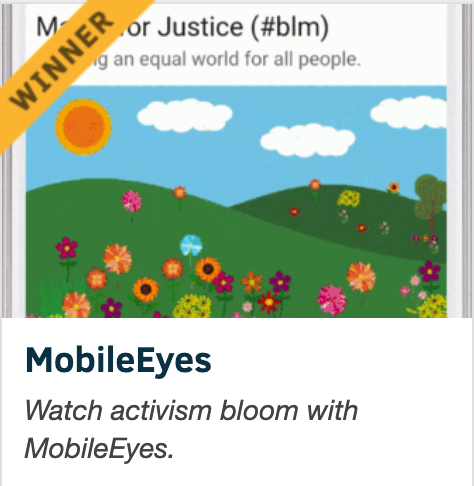
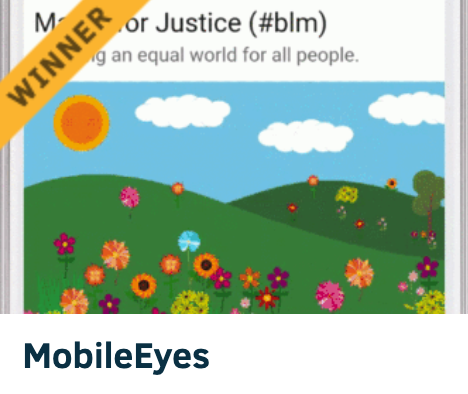
added projects kinda

diff --git a/projects.html b/projects.html
@@ -78,31 +78,122 @@
             </p>
           </div>
         </div>
-        <div class="header-img header-img-home"></div>
+        <div class="header-img header-img-project"></div>
         <div class="header-overlay"></div>
       </section>
     </header>
     <div class="row">
-      <div class="col-md-6">
-        <img src="assets/yta-tennis.JPG"" alt="YTA Picture" />
+      <div class="col-sm-6">
+        <div class="card">
+          <div class="card-body">
+            <h1 class="title-projects">MobileEyes</h1>
+            <img
+              class="card-img-top"
+              src="assets/projects/mobile-eyes.png"
+              alt="MobileEyes Project Image"
+            />
+            <p class="card-text p-projects">
+              MobileEyes is a mobile application that makes it easy to discover
+              upcoming protests, rallies, or activism events—known simply as
+              "Springs" within the app. Users can see where and when nearby
+              Springs will begin and learn about their missions and background.
+              On the day of the event, when users arrive at the listed location,
+              the app will allow them to "Check In", which adds a flower to the
+              Spring's visual garden. As more and more activists assemble, the
+              Spring thrives, which encourages even more people to join in and
+              grow the movement. Those wanting to create events themselves can
+              use MobileEyes to "Seed a Spring" in just a few taps.
+            </p>
+            <a href="#" class="btn btn-primary">Learn More!</a>
+          </div>
+        </div>
       </div>
-      <div class="col-md-6">
-        <div class="text-box-about">
-          <h4 class="title-about">Teaching</h4>
-          <p class="p-about">
-            One thing I love to do is teach others, whether they be my peers or
-            younger students who need help in STEM subjects. I am a tutor for
-            Youth Tennis Advantage, a local organization that provides tutoring
-            and tennis coaching for under-resourced students in Berkeley and
-            Oakland, CA. I have been a volunteer for them since I was a freshman
-            in high school. Last summer, I volunteered as a Calculus tutor for
-            Blossom Tutoring, a student-lead organization that provides tutoring
-            for high school students facing academically-inhibiting challenges
-            due to the COVID-19 pandemic. I am also an academic intern for
-            CS61B, the data structures course at UC Berkeley.
-          </p>
+      <div class="col-sm-6">
+        <div class="card">
+          <div class="card-body">
+            <h1 class="title-projects">Ada Educates</h1>
+            <img
+              class="card-img-top"
+              src="assets/projects/ada.png"
+              alt="Ada Educates Project Image"
+            />
+            <a href="#" class="btn btn-primary">Learn More!</a>
+          </div>
         </div>
       </div>
     </div>
+    <div class="row">
+      <div class="col-sm-6">
+        <div class="card">
+          <div class="card-body">
+            <h1 class="title-projects">Gitlet</h1>
+            <img
+              class="card-img-top"
+              src="assets/projects/gitlet.png"
+              alt="Gitlet Project Image"
+            />
+            <p class="card-text p-projects">
+              Gitlet is a version-control system
+            </p>
+            <a href="#" class="btn btn-primary">Learn More!</a>
+          </div>
+        </div>
+      </div>
+      <div class="col-sm-6">
+        <div class="card">
+          <div class="card-body">
+            <h1 class="title-projects">SparkEvents</h1>
+            <img
+              class="card-img-top"
+              src="assets/projects/SparkELogo.png"
+              alt="SparkEvents Project Image"
+            />
+            <a href="#" class="btn btn-primary">Learn More!</a>
+          </div>
+        </div>
+      </div>
+    </div>
+
+    <!-- FOOTER -->
+    <footer>
+      <div class="social-media-logo-container">
+        <a href="mailto:nmahini@berkeley.edu">
+          <img
+            src="assets/social-media-logos/email-logo.png"
+            class="social-media-logo"
+          />
+        </a>
+        <a href="https://www.linkedin.com/in/noor-mahini/">
+          <img
+            src="assets/social-media-logos/linkedIn-logo.png"
+            class="social-media-logo"
+          />
+        </a>
+        <a href="https://www.instagram.com/noor.mahini/?hl=en">
+          <img
+            src="assets/social-media-logos/instagram-logo.png"
+            class="social-media-logo"
+          />
+        </a>
+        <a href="https://github.com/noortor">
+          <img
+            src="assets/social-media-logos/github-logo.png"
+            class="social-media-logo"
+          />
+        </a>
+      </div>
+    </footer>
+    <script
+      src="https://code.jquery.com/jquery-3.2.1.slim.min.js"
+      integrity="sha384-KJ3o2DKtIkvYIK3UENzmM7KCkRr/rE9/Qpg6aAZGJwFDMVNA/GpGFF93hXpG5KkN"
+      crossorigin="anonymous"
+    ></script>
+    <script
+      src="https://cdnjs.cloudflare.com/ajax/libs/popper.js/1.12.9/umd/popper.min.js"
+      integrity="sha384-ApNbgh9B+Y1QKtv3Rn7W3mgPxhU9K/ScQsAP7hUibX39j7fakFPskvXusvfa0b4Q"
+      crossorigin="anonymous"
+    ></script>
+    <script src="bootstrap-4.0.0-dist/js/bootstrap.min.js"></script>
+    <script src="./motion.js"></script>
   </body>
 </html>

diff --git a/style.css b/style.css
@@ -137,12 +137,13 @@ p.lead {
 
 /*### About Header #############*/
 .header-img-about {
-    background: url("assets/minecraft-pics/minecraft-house-3.png") no-repeat center center;
+    background: url("assets/amazonyard.jpg") no-repeat;
 }
 
 /*### Project Header #############*/
-.project-header-img:before {
-    background: url("https://sidigital.co/static/33c22bbc04bd201be169e8437539e491/37e83/bespoke-software-development.png") no-repeat center center;
+.header-img-project {
+    top: -180px;
+    background: url("https://sidigital.co/static/33c22bbc04bd201be169e8437539e491/37e83/bespoke-software-development.png") repeat center center;
 }
 
 
@@ -159,15 +160,32 @@ p.lead {
 }
 
 .p-about {
-    line-height: 1.7;
+    line-height: 1.5;
 }
 
 /*### Projects Content ###*/
 .title-projects {
-    
+    color:black;
+    font-size: 60px;
+    text-align: center;
+    padding: 0;
 }
 
-.text-box-projects {
+.p-projects {
+    line-height: 1.7
+}
+
+.wrapper-projects {
+    margin: 20px 0px;
+    border: 2px solid black;
+}
+
+.img-wrapper-projects {
+    margin: 40px;
+    height: 370px;
+    width: 400px;
+    border: 2px solid black;
+    object-fit: contain;
 }
 
 .p-projects {

diff --git a/about.html b/about.html
@@ -78,7 +78,7 @@
             </p>
           </div>
         </div>
-        <div class="header-img header-img-home"></div>
+        <div class="header-img header-img-about"></div>
         <div class="header-overlay"></div>
       </section>
     </header>
